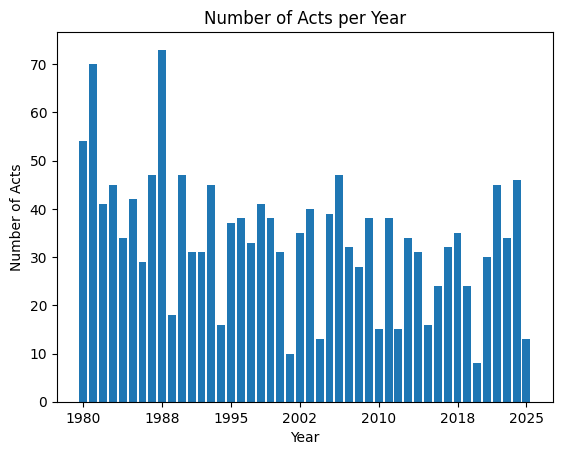
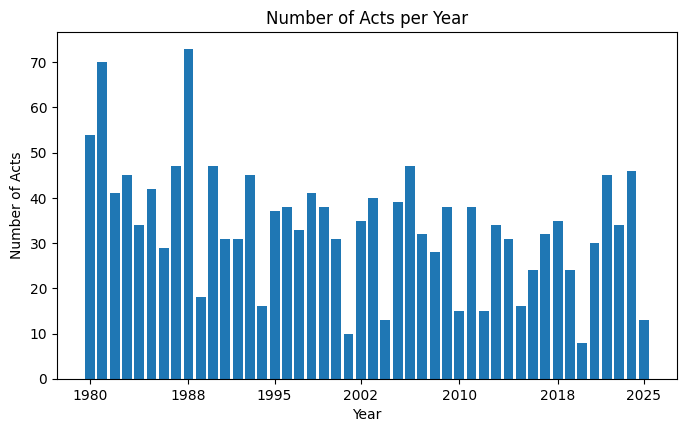
Ran build readme

Changed region(s): [[0.0, 0.0, 0.9982, 0.9931]]

diff --git a/README.md b/README.md
@@ -1,6 +1,6 @@
 # 🇱🇰 Acts from the Sri Lankan Parliament ([lk_parliament_docs](https://github.com/nuuuwan/lk_parliament_docs))
 
-Scraped  **1,563** acts (0.60 MB) from [www.parliament.lk](https://www.parliament.lk/en) as of **2025-08-16 17:33:59**.
+Scraped  **1,563** acts (0.60 MB) from [www.parliament.lk](https://www.parliament.lk/en) as of **2025-08-16 17:34:45**.
 
 ![Year Chart](images/chart_year.png)
 
